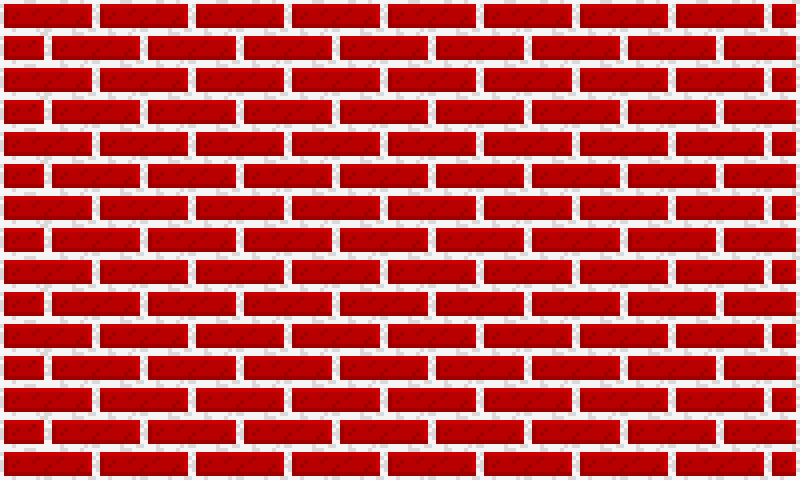
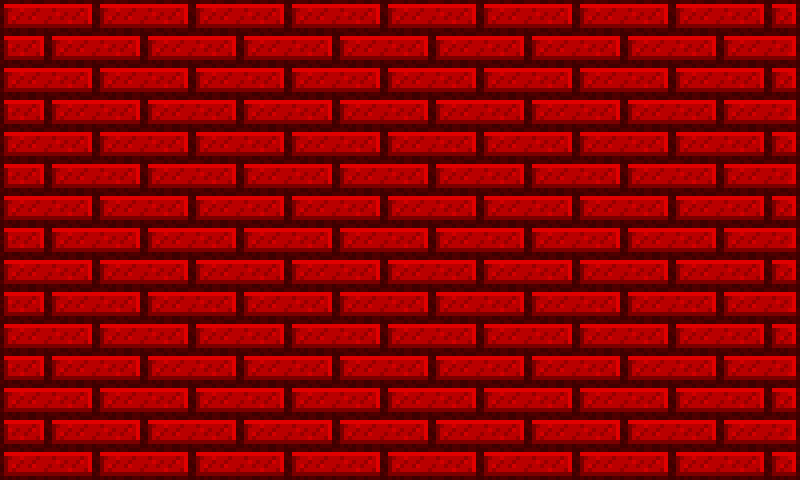
Started working on the new menu system

diff --git a/src/gameplay/world.js b/src/gameplay/world.js
@@ -11,10 +11,14 @@ function World(skipIntro) {
     this.bricks = game.add.group();
     this.enemies = game.add.group();
     
+    this.brickSprites = new Array();
+
     this.ufos = new Array();
     this.wavers = new Array();
     this.lasers = game.add.group();
     
+    this.markers = game.add.group();
+
     this.wall = new Wall(wallWidth);
     this.canBrickFall = true;
     this.boundsToPush = 0;
@@ -33,13 +37,46 @@ function World(skipIntro) {
     for (var i = 0; i < scores.length; i++) {
         var score = scores[i];
         var y = windowHeight - brickHeight - score * brickHeight;
-        game.add.sprite(0, y, 'scoreline');
         
-        MakeLabel(0, y - 24, '  ' + score + 'm', smallTextFont, '#000000', false);
+        this.markers.add(game.add.sprite(0, y, 'scoreline'));
+        
+        this.markers.add(MakeLabel(0, y - 24, '  ' + score + 'm', smallTextFont, '#000000', false));
     }
     
     this.destroy = function () {
-        game.world.removeAll();
+        if (this.ground) {
+            this.ground.body = null;
+            this.ground.destroy();
+        }
+
+        this.waterLeft.destroy();
+        this.waterRight.destroy();
+
+        for (var i = 0; i < this.brickSprites.length; i++) {
+            this.brickSprites[i].sprite.body = null;
+            this.brickSprites[i].sprite.destroy();
+        }
+
+        for (var i = 0; i < this.enemies.length; i++) {
+            this.enemies.getAt(i).body = null;
+            this.enemies.getAt(i).destroy();
+        }
+
+        for (var i = 0; i < this.ufos.length; i++) {
+            this.ufos[i].sprite.body = null;
+            this.ufos[i].sprite.destroy();
+        }
+
+        for (var i = 0; i < this.wavers.length; i++) {
+            this.wavers[i].sprite.body = null;
+            this.wavers[i].sprite.destroy();
+        }
+
+        for (var i = 0; i < this.lasers.length; i++) {
+            this.lasers.getAt(i).body = null;
+            this.lasers.getAt(i).destroy();
+        }
+        this.markers.destroy();
     };
     
     this.gameOver = function () {
@@ -61,6 +98,8 @@ function World(skipIntro) {
             
             var brick = new Brick(lane, this.wall.isOffset(lane), this.wall, this.difficulty);
             this.fallingBrick = brick;
+
+            this.brickSprites[this.brickSprites.length] = brick;
             
             this.wall.addBrick(lane, brick);
             this.canBrickFall = false;
@@ -255,7 +294,6 @@ function World(skipIntro) {
     
     this.brickCollisionCallback = function (brick, other) {        
         this.fallingBrick = null;
-        this.bricks.add(brick);
 
         brick.body.x -= brickWidthMargin;
         brick.body.width += brickWidthMargin * 2;
@@ -342,6 +380,10 @@ function World(skipIntro) {
 
                 // console.log('Merged bricks to the left');
             }
+        }
+
+        if (brick.body) {
+            this.bricks.add(brick);
         }
     };
     
@@ -525,10 +567,6 @@ function makeWaterLeft() {
     water.animations.play('normal');
     water.fixedToCamera = true;
 
-    game.physics.arcade.enable(water);
-    water.body.moves = false;
-    water.body.immovable = true;
-
     return water;
 }
 
@@ -542,10 +580,6 @@ function makeWaterRight() {
     water.animations.add('normal', [1, 0], 1.25, true);
     water.animations.play('normal');
     water.fixedToCamera = true;
-
-    game.physics.arcade.enable(water);
-    water.body.moves = false;
-    water.body.immovable = true;
 
     return water;
 }

diff --git a/src/main-menu.js b/src/main-menu.js
@@ -2,8 +2,6 @@
 
 function MainMenu() {
     
-    var titleFill = '#FF0000';
-    
     var titleX1 = windowWidth * 0.45;
     var titleY1 = windowHeight * 0.2;
     var title1 = 'Brickety';
@@ -14,14 +12,37 @@ function MainMenu() {
     
     var msgX = windowWidth * 0.5;
     var msgY = windowHeight * 0.7;
-    var msgFill = '#FF0000';
     var msg = 'Press SPACE to play.';
     
-    this.show = function() {
-        this.titleText1 = MakeCenteredLabel(titleX1, titleY1, title1, titleFont, titleFill);
-        this.titleText2 = MakeCenteredLabel(titleX2, titleY2, title2, titleFont, titleFill);
-        
-        this.msgText = MakeCenteredLabel(msgX, msgY, msg, mediumTextFont, msgFill);
+    this.show = function(oldState) {
+        if (oldState) {
+            //transition on from above
+            this.backdrop = game.add.sprite(0, 0, 'backdrop');
+            this.backdrop.y -= this.backdrop.height;
+
+            game.add.tween(this.backdrop).to({y: 0}, 500, menuEasing, true);
+
+            this.titleText1 = MakeCenteredLabel(titleX1, titleY1 - windowHeight, title1, titleFont, titleColor);
+            game.add.tween(this.titleText1).to({y: titleY1}, 500, menuEasing, true);
+
+            this.titleText2 = MakeCenteredLabel(titleX2, titleY2 - windowHeight, title2, titleFont, titleColor);
+            game.add.tween(this.titleText2).to({y: titleY2}, 500, menuEasing, true);
+
+            AddLabelShadow(this.titleText1, 10, 10, '#000000', 7);
+            AddLabelShadow(this.titleText2, 10, 10, '#000000', 7);
+        } else {
+            //simply appear
+            this.backdrop = game.add.sprite(0, 0, 'backdrop');
+
+            this.titleText1 = MakeCenteredLabel(titleX1, titleY1, title1, titleFont, titleColor);
+            this.titleText2 = MakeCenteredLabel(titleX2, titleY2, title2, titleFont, titleColor);
+
+            AddLabelShadow(this.titleText1, 10, 10, '#000000', 7);
+            AddLabelShadow(this.titleText2, 10, 10, '#000000', 7);
+
+        }
+    
+        this.msgText = MakeCenteredLabel(msgX, msgY, msg, mediumTextFont, titleColor);
         
         game.input.keyboard.addKeyCapture(Phaser.Keyboard.SPACEBAR);
         this.playKey = game.input.keyboard.addKey(Phaser.Keyboard.SPACEBAR);
@@ -31,13 +52,31 @@ function MainMenu() {
     };
     
     this.hide = function (newState) {
-        this.titleText1.destroy();
-        this.titleText2.destroy();
-        this.msgText.destroy();
+        //tween upwards
+        var tween = game.add.tween(this.backdrop);
+        tween.to({y: -this.backdrop.height}, 500, menuEasing, true);
         
+        tween.onComplete.add(this.destroy, this);
+
+        var y = this.titleText1.y - this.backdrop.height;
+        game.add.tween(this.titleText1).to({y: y}, 500, menuEasing, true);
+
+        y = this.titleText2.y - this.backdrop.height;
+        game.add.tween(this.titleText2).to({y: y}, 500, menuEasing, true);
+
+        y = this.msgText.y - this.backdrop.height;
+        game.add.tween(this.msgText).to({y: y}, 500, menuEasing, true);
+
         game.input.onDown.remove(playKeyPressed, this);
         game.input.keyboard.removeKey(Phaser.Keyboard.SPACEBAR);
         game.input.keyboard.removeKeyCapture(Phaser.Keyboard.SPACEBAR);
+    };
+
+    this.destroy = function() {
+        this.titleText1.destroy();
+        this.titleText2.destroy();
+        this.msgText.destroy();
+        this.backdrop.destroy();
     };
     
     function playKeyPressed() {

diff --git a/src/high-score-screen.js b/src/high-score-screen.js
@@ -2,11 +2,11 @@ function HighScoreScreen(newRecord) {
     
     this.newRecord = newRecord;
         
-    this.scoreText = new Array();
+    this.scoreText = game.add.group();
     
     this.wallSprites = new Array();
     
-    this.show = function () {
+    this.show = function (oldState) {
         var text = "Rick's Best Walls";
         if (this.newRecord !== -1) {
             text = 'New record!';
@@ -27,23 +27,33 @@ function HighScoreScreen(newRecord) {
         game.input.onDown.add(playKeyPressed, this);
         
         //make the physical stuff
-        makeGround();
-        makeWaterLeft();
-        makeWaterRight();
+        this.ground = makeGround();
+        this.waterLeft = makeWaterLeft();
+        this.waterRight = makeWaterRight();
 
         var startX = lerp(wallRightX, wallLeftX, 0.15);
         var endX = windowWidth - startX;
         this.dx = (startX - endX) / 2;
         
         this.x = startX;
-        
-        console.log('First wall x: ' + this.x);
 
         this.nextMiniWall = scores.length - 1;
     };
     
     this.hide = function () {
-        game.world.removeAll();
+        this.scoreText.destroy();
+        this.helpText.destroy();
+        this.titleText.destroy();
+
+        this.ground.body = null;
+        this.ground.destroy();
+        this.waterLeft.destroy();
+        this.waterRight.destroy();
+
+        for (var i = 0; i < this.wallSprites.length; i++) {
+            this.wallSprites[i].body = null;
+            this.wallSprites[i].destroy();
+        }
         
         game.input.onDown.remove(playKeyPressed, this);
         game.input.keyboard.removeKey(Phaser.Keyboard.SPACEBAR);
@@ -68,7 +78,7 @@ function HighScoreScreen(newRecord) {
                     //show height number
                     var heightText = '' + sprite.wallHeight + 'm';
                     
-                    MakeLabel(sprite.body.x, bottomBounds - (brickHeight + 1 + sprite.wallHeight * 3) - 24 * 2, heightText, smallTextFont, '#000000', false);
+                    this.scoreText.add(MakeLabel(sprite.body.x, bottomBounds - (brickHeight + 1 + sprite.wallHeight * 3) - 24 * 2, heightText, smallTextFont, '#000000', false));
                     
                     this.nextMiniWall = sprite.lane - 1;
                     

diff --git a/src/main.js b/src/main.js
@@ -60,6 +60,8 @@ function preload() {
     game.load.spritesheet('rightarrow', 'assets/ui/rightarrowbutton.png', buttonWidth, buttonHeight);
     game.load.spritesheet('uparrow', 'assets/ui/uparrowbutton.png', buttonWidth, buttonHeight);
     game.load.image('scoreline', 'assets/ui/scoreline2.png');
+    game.load.image('backdrop', 'assets/ui/brickbackdrop.png');
+    game.load.image('loadingscreen', 'assets/ui/loadingscreen2.png');
 
     //load sounds
     game.load.audio('jump', 'assets/sounds/Jump56.wav', true);
@@ -70,7 +72,7 @@ function preload() {
     game.load.audio('splash', 'assets/sounds/Splash3.wav');
 
     if (!localStorage.getItem('Scores') || resetScores) {
-        var scores = [ 100, 50, 15 ]; //100 50 20                                TODO finalize these & disable resetScores
+        var scores = [ 100, 50, 15 ];
         
         localStorage.setItem('Scores', JSON.stringify(scores));
     }
@@ -99,6 +101,8 @@ function resetWorldBounds () {
 }
 
 function create() {
+    loadingScreen = game.add.sprite(0, 0, 'loadingscreen');
+
     game.time.events.add(Phaser.Timer.SECOND, start, this);
     
 }
@@ -109,7 +113,8 @@ function onInputUp() {
 }
 
 function start() {
-    console.log('Starting');
+    loadingScreen.destroy();
+
     started = true;
     
     game.stage.backgroundColor = backgroundColor;
@@ -180,6 +185,7 @@ function setState(newState) {
     }
     
     resetWorldBounds();
+
+    newState.show(state);
     state = newState;
-    state.show();
 }

diff --git a/src/gameplay-screen.js b/src/gameplay-screen.js
@@ -2,7 +2,7 @@ function GameplayScreen(skipIntro) {
     this.gameOverWaitTime = 2000;
     this.newRecord = -1;
     
-    this.show = function () {
+    this.show = function (oldState) {
         this.world = new World(skipIntro);
         this.gameOverTimer = 0;
     };

diff --git a/src/label.js b/src/label.js
@@ -11,3 +11,7 @@ function MakeCenteredLabel(x, y, text, font, fill, fixedToCamera) {
     label.anchor.setTo(0.5, 0.5);
     return label;
 }
+
+function AddLabelShadow(label, x, y, color, blur) {
+	label.setShadow(x, y, color, blur);
+}

diff --git a/src/config.js b/src/config.js
@@ -10,6 +10,10 @@
 var soundVolume = 0.1;
 var backgroundColor = '#38ACEC';
 
+var titleColor = '#FFFFFF';
+
+var menuEasing = Phaser.Easing.Linear.None;
+
 //fonts
 
     var titleFont = '72px Bangers';
